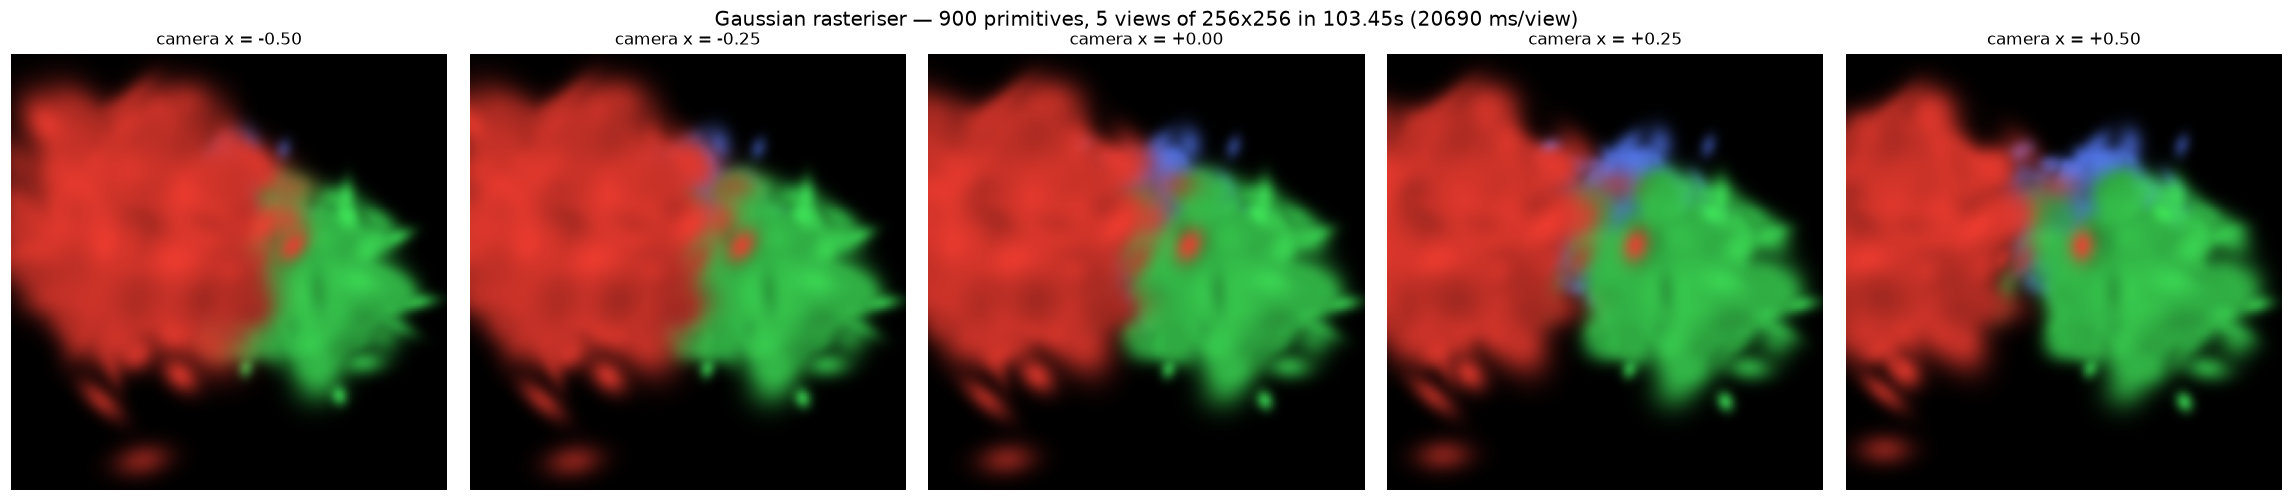
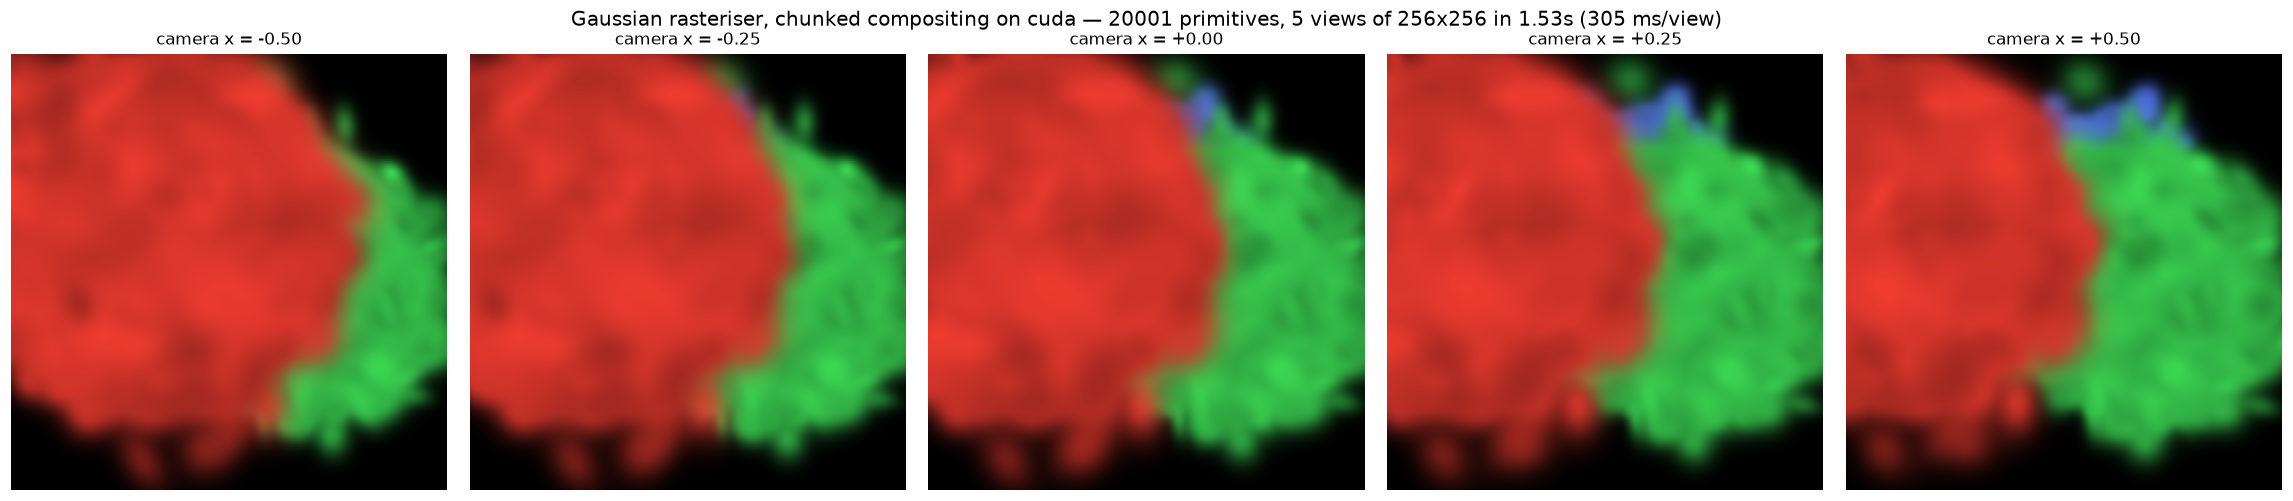
Vectorise the Gaussian rasteriser: 43x on the GPU
The per-primitive Python loop cost about 435 microseconds per Gaussian on
the GPU and -- the diagnostic detail -- the same whether the splat covered
4 pixels or 21. A cost that does not move with the work done is launch
overhead, not arithmetic, which is also why the GPU was 4.3 times slower
than the CPU: thousands of tiny kernels, each mostly latency.

Primitives now composite a chunk at a time, using an exclusive cumulative
product of (1 - alpha) built by shifting the inclusive one rather than
dividing, since the division is unbounded wherever a primitive is opaque.
Each Gaussian is evaluated over the frame and masked back to exactly its
old rectangular bounding box, so this is a pure speed change.

  4000 primitives, 256^2, GPU   1764 ms -> 41 ms      43x
  per primitive, GPU            435 us  -> 10 us
  20001 primitives, 256^2, GPU  8.70 s  -> 0.305 s    29x
  one 17x17 light field         42 min  -> 88 s

Equivalence is proved, not assumed: max difference 1.55e-15 against an
independently written longhand sum at 900 primitives and 256^2 in float64,
all 25 existing tests unchanged, chunk size shown to be a memory knob
rather than a correctness one, and an opaque blocker shown to still block
across a chunk boundary.

Two caveats recorded in the docstring. The CPU path is 25 times slower,
because dense evaluation does roughly three thousand times more arithmetic
for a small splat. And work now grows as the primitive count times the
[…]

diff --git a/tier1_gaussians/render.py b/tier1_gaussians/render.py
@@ -24,11 +24,38 @@ Conventions, stated once:
   * quaternions are (w, x, y, z) and are normalised on use
   * Gaussians composite front to back, nearest first
 
-Performance: this evaluates each Gaussian over a bounding box rather than
-binning into tiles, so cost grows as the number of Gaussians times their
-projected area. That is ample for scenes of a few thousand primitives and is
-NOT the architecture for a hundred thousand; tiling is the fix when it is
-needed, and it belongs here rather than in a caller.
+Performance. An earlier version looped over primitives in Python, evaluating
+each over its own bounding box. Measured, that cost about 100 microseconds per
+Gaussian on the CPU and 435 on the GPU -- and, tellingly, the SAME whether the
+splat covered 4 pixels or 21. The cost was per-primitive launch overhead, not
+arithmetic, which is why the GPU was four times SLOWER than the CPU: thousands
+of tiny kernels, each mostly latency.
+
+So the loop now runs over chunks of primitives instead, compositing a whole
+chunk at once with an exclusive cumulative product of (1 - alpha). Each
+Gaussian is evaluated over the full frame and masked back to its bounding box,
+which does more arithmetic than the per-box version but in a few hundred
+kernels rather than a few thousand. Arithmetic is the cheap resource here.
+
+Measured on 4000 Gaussians into a 256 square frame: 1764 ms before, 41 ms
+after, a factor of 43, and the per-primitive cost fell from 433 to 10
+microseconds.
+
+The same change makes the CPU path 25 times SLOWER -- 399 ms to 10042 ms --
+because a CPU has no spare arithmetic to trade for launches, and the dense
+evaluation does roughly three thousand times more of it for a four-pixel
+splat. That is accepted rather than fixed: light field generation runs on the
+GPU, the tests render frames of 32 to 64 pixels where it does not matter, and
+carrying a second compositing implementation to serve a case nobody uses would
+risk the two drifting apart. If a large CPU render is ever needed, the answer
+is tiling, not a second code path.
+
+What this does NOT fix: work grows as the number of Gaussians times the FRAME
+area, not times the projected area, so a hundred thousand primitives at 512
+squared is out of reach. The backward pass binds sooner still, because autograd
+keeps every chunk's intermediates alive, so peak training memory scales the
+same way. Tile binning answers all three -- CPU cost, large N, and backward
+memory -- and belongs here rather than in a caller.
 """
 
 from dataclasses import dataclass
@@ -43,6 +70,12 @@ CUTOFF_SIGMA = 3.0
 
 # Screen-space low-pass dilation, in pixels squared. Kerbl et al. 2023.
 DILATION_PX2 = 0.3
+
+# How many elements a single chunk's working tensors may reach. The chunk size
+# follows from this and the frame area, so a big frame automatically takes
+# fewer primitives per pass and peak memory stays put instead of tracking
+# resolution. Nine or so tensors of this size are live at once.
+CHUNK_ELEMENTS = 1 << 22
 
 
 @dataclass
@@ -147,7 +180,9 @@ def render(scene, camera, background=None):
 
     Differentiable in every scene parameter. The depth SORT is not
     differentiable, which is standard and correct: ordering is discrete, and
-    gradients flow through the blend given the order.
+    gradients flow through the blend given the order. Nor is the bounding box,
+    whose edges are floors and ceilings of the projected mean -- also as
+    before, when those edges were Python integers.
     """
     H, W = camera.height, camera.width
     dtype, device = scene.position.dtype, scene.position.device
@@ -167,53 +202,65 @@ def render(scene, camera, background=None):
     cov2d = cov2d + torch.eye(2, dtype=dtype, device=device) * DILATION_PX2
 
     order = torch.argsort(torch.where(visible, depth, torch.full_like(depth, np.inf)))
+    order = order[visible[order]]                      # nearest first, visible only
+
+    S = cov2d[order]
+    det = S[:, 0, 0] * S[:, 1, 1] - S[:, 0, 1] * S[:, 1, 0]
+    inv_xx, inv_xy, inv_yy = S[:, 1, 1] / det, -S[:, 0, 1] / det, S[:, 0, 0] / det
+
+    # The ellipse is bounded by the LARGEST EIGENVALUE, not by the largest
+    # diagonal entry. For [[a, b], [b, d]] they coincide only when b = 0, i.e.
+    # when the projected ellipse happens to be axis-aligned on screen. A tilted
+    # anisotropic Gaussian is the common case in a fitted scene, and using the
+    # diagonal clipped it by up to 29%, visible as a straight cut across the
+    # blob and as zero gradient outside the box.
+    trace = S[:, 0, 0] + S[:, 1, 1]
+    lam_max = 0.5 * (trace + torch.sqrt(torch.clamp(trace ** 2 - 4 * det, min=0.0)))
+    radius = CUTOFF_SIGMA * torch.sqrt(lam_max)
+
+    mu = mean_px[order]
+    colour, opacity = scene.colour[order], scene.opacity[order]
+    lo_c, hi_c = torch.floor(mu[:, 0] - radius), torch.ceil(mu[:, 0] + radius)
+    lo_r, hi_r = torch.floor(mu[:, 1] - radius), torch.ceil(mu[:, 1] + radius)
+
     yy, xx = torch.meshgrid(torch.arange(H, device=device, dtype=dtype),
                             torch.arange(W, device=device, dtype=dtype),
                             indexing="ij")
+    col = xx[None]
+    row = yy[None]
 
-    for i in order.tolist():
-        if not bool(visible[i]):
-            continue
-        S = cov2d[i]
-        det = S[0, 0] * S[1, 1] - S[0, 1] * S[1, 0]
-        inv = torch.stack([torch.stack([S[1, 1], -S[0, 1]]),
-                           torch.stack([-S[1, 0], S[0, 0]])]) / det
+    n = order.shape[0]
+    step = max(1, CHUNK_ELEMENTS // (H * W))
+    for start in range(0, n, step):
+        s = slice(start, start + step)
+        dx = col - mu[s, 0, None, None]
+        dy = row - mu[s, 1, None, None]
+        power = -0.5 * (inv_xx[s, None, None] * dx * dx
+                        + 2 * inv_xy[s, None, None] * dx * dy
+                        + inv_yy[s, None, None] * dy * dy)
 
-        # The ellipse is bounded by the LARGEST EIGENVALUE, not by the largest
-        # diagonal entry. For [[a, b], [b, d]] they coincide only when b = 0,
-        # i.e. when the projected ellipse happens to be axis-aligned on screen.
-        # A tilted anisotropic Gaussian is the common case in a fitted scene,
-        # and using the diagonal clipped it by up to 29%, visible as a straight
-        # cut across the blob and as zero gradient outside the box.
-        trace = S[0, 0] + S[1, 1]
-        lam_max = 0.5 * (trace + torch.sqrt(torch.clamp(trace ** 2 - 4 * det, min=0.0)))
-        radius = CUTOFF_SIGMA * torch.sqrt(lam_max)
-        c0 = int(max(0, torch.floor(mean_px[i, 0] - radius).item()))
-        c1 = int(min(W, torch.ceil(mean_px[i, 0] + radius).item() + 1))
-        r0 = int(max(0, torch.floor(mean_px[i, 1] - radius).item()))
-        r1 = int(min(H, torch.ceil(mean_px[i, 1] + radius).item() + 1))
-        if c0 >= c1 or r0 >= r1:
-            continue
+        # Exactly the old per-primitive bounding box, expressed as a mask: a
+        # pixel was included iff its integer coordinate fell within the floored
+        # and ceiled extent of the projected mean. Keeping the rectangle rather
+        # than switching to a clean elliptical cutoff is deliberate -- it makes
+        # this a pure speed change, provable against the old behaviour.
+        inside = ((col >= lo_c[s, None, None]) & (col <= hi_c[s, None, None])
+                  & (row >= lo_r[s, None, None]) & (row <= hi_r[s, None, None]))
+        alpha = opacity[s, None, None] * torch.exp(torch.clamp(power, max=0.0))
+        alpha = torch.where(inside, alpha, torch.zeros_like(alpha))
 
-        dx = xx[r0:r1, c0:c1] - mean_px[i, 0]
-        dy = yy[r0:r1, c0:c1] - mean_px[i, 1]
-        power = -0.5 * (inv[0, 0] * dx * dx + 2 * inv[0, 1] * dx * dy
-                        + inv[1, 1] * dy * dy)
-        alpha = scene.opacity[i] * torch.exp(torch.clamp(power, max=0.0))
+        # Front-to-back compositing, in closed form rather than by recursion:
+        # the light reaching primitive k is the product of (1 - alpha) over
+        # every nearer one, which is an EXCLUSIVE cumulative product. Built by
+        # shifting the inclusive one rather than dividing by alpha, because the
+        # division is unbounded wherever a primitive is opaque.
+        one_minus = 1 - alpha
+        inclusive = torch.cumprod(one_minus, dim=0)
+        exclusive = torch.cat([torch.ones_like(inclusive[:1]), inclusive[:-1]], dim=0)
 
-        # Slice assignment, NOT Tensor.index_put: the out-of-place form clones
-        # the whole image for every primitive, so cost scaled with frame area
-        # rather than with the Gaussian's footprint -- measured at 6.07 ms per
-        # call against 0.008 ms for this, a factor of 755.
-        # The patches are CLONED before the write. Autograd saves the views it
-        # needs for the backward pass, and overwriting a slice in place would
-        # invalidate the very view the blend depends on. Cloning a bounding box
-        # is cheap; cloning the frame, which index_put did, was not.
-        patch_image = image[r0:r1, c0:c1].clone()
-        patch_T = transmittance[r0:r1, c0:c1].clone()
-        image[r0:r1, c0:c1] = patch_image + \
-            (patch_T * alpha)[:, :, None] * scene.colour[i]
-        transmittance[r0:r1, c0:c1] = patch_T * (1 - alpha)
+        weight = alpha * exclusive * transmittance[None]
+        image = image + torch.einsum("khw,kc->hwc", weight, colour[s])
+        transmittance = transmittance * inclusive[-1]
 
     if background is not None:
         image = image + transmittance[:, :, None] * background

diff --git a/tests/test_gaussian_render.py b/tests/test_gaussian_render.py
@@ -407,3 +407,125 @@ def test_rendering_stays_differentiable_after_the_in_place_write():
     for t in (scene.position, scene.scale):
         assert t.grad is not None and torch.isfinite(t.grad).all()
         assert t.grad.abs().max() > 0
+
+
+# ---------------------------------------------------------------------------
+# The rasteriser composites a chunk at a time with a cumulative product rather
+# than one primitive at a time. That is a pure speed change, so it has to agree
+# with the compositing definition written out longhand.
+# ---------------------------------------------------------------------------
+
+def _composite_longhand(scene, camera):
+    """
+    sum_i c_i a_i prod_(j<i) (1 - a_j), evaluated with an explicit Python loop
+    over primitives in depth order. Deliberately naive and deliberately not
+    sharing code with `render`, so agreement means something.
+    """
+    from tier1_gaussians.render import (CUTOFF_SIGMA, DILATION_PX2,
+                                        project_gaussians)
+    H, W = camera.height, camera.width
+    mean_px, cov2d, depth, visible = project_gaussians(scene, camera)
+    cov2d = cov2d + torch.eye(2, dtype=cov2d.dtype) * DILATION_PX2
+
+    image = np.zeros((H, W, 3))
+    trans = np.ones((H, W))
+    order = np.argsort(np.where(visible.numpy(), depth.detach().numpy(), np.inf))
+
+    for i in order:
+        if not bool(visible[i]):
+            continue
+        S = cov2d[i].detach().numpy()
+        det = S[0, 0] * S[1, 1] - S[0, 1] * S[1, 0]
+        inv = np.array([[S[1, 1], -S[0, 1]], [-S[1, 0], S[0, 0]]]) / det
+        lam_max = np.linalg.eigvalsh(S).max()
+        radius = CUTOFF_SIGMA * np.sqrt(lam_max)
+        u, v = mean_px[i].detach().numpy()
+
+        cols = np.arange(W)[None, :]
+        rows = np.arange(H)[:, None]
+        dx, dy = cols - u, rows - v
+        power = -0.5 * (inv[0, 0] * dx ** 2 + 2 * inv[0, 1] * dx * dy + inv[1, 1] * dy ** 2)
+        inside = ((cols >= np.floor(u - radius)) & (cols <= np.ceil(u + radius))
+                  & (rows >= np.floor(v - radius)) & (rows <= np.ceil(v + radius)))
+        alpha = np.where(inside, float(scene.opacity[i]) * np.exp(np.minimum(power, 0.0)), 0.0)
+
+        image += (trans * alpha)[:, :, None] * scene.colour[i].detach().numpy()
+        trans = trans * (1 - alpha)
+    return image, trans
+
+
+@pytest.mark.parametrize("n", [1, 5, 40])
+def test_chunked_compositing_equals_the_longhand_sum(n):
+    g = torch.Generator().manual_seed(7 + n)
+    r = lambda *s: torch.rand(*s, generator=g, dtype=torch.float64)
+    scene = GaussianScene(
+        position=(r(n, 3) - 0.5) * 3 - torch.tensor([0.0, 0.0, 6.0], dtype=torch.float64),
+        quaternion=r(n, 4) - 0.5,
+        scale=0.05 * (0.5 + r(n, 3)),
+        opacity=0.2 + 0.6 * r(n),
+        colour=r(n, 3))
+    cam = a_camera(width=48, height=48)
+
+    got = render(scene, cam).detach().numpy()
+    want, _ = _composite_longhand(scene, cam)
+    # Guard against the test passing by rendering nothing: this camera looks
+    # along -Z, and an earlier version of this scene sat behind it, so the
+    # comparison was between two blank images and could not fail.
+    assert got.max() > 0.05, "the scene must actually be in front of the camera"
+    assert np.allclose(got, want, atol=1e-12), f"max diff {np.abs(got - want).max():.3e}"
+
+
+def test_chunking_does_not_change_the_result():
+    """The chunk size is a memory knob; it must not be a correctness knob."""
+    import tier1_gaussians.render as R
+    g = torch.Generator().manual_seed(3)
+    r = lambda *s: torch.rand(*s, generator=g, dtype=torch.float64)
+    n = 30
+    scene = GaussianScene(
+        position=(r(n, 3) - 0.5) * 3 - torch.tensor([0.0, 0.0, 6.0], dtype=torch.float64),
+        quaternion=r(n, 4) - 0.5, scale=0.06 * (0.5 + r(n, 3)),
+        opacity=0.2 + 0.6 * r(n), colour=r(n, 3))
+    cam = a_camera(width=40, height=40)
+
+    original = R.CHUNK_ELEMENTS
+    try:
+        R.CHUNK_ELEMENTS = 1 << 22
+        big = render(scene, cam)
+        R.CHUNK_ELEMENTS = 40 * 40            # exactly one primitive per chunk
+        one = render(scene, cam)
+        R.CHUNK_ELEMENTS = 40 * 40 * 7
+        seven = render(scene, cam)
+    finally:
+        R.CHUNK_ELEMENTS = original
+
+    assert float(big.max()) > 0.05, "the scene must actually be in front of the camera"
+    assert torch.allclose(big, one, atol=1e-12)
+    assert torch.allclose(big, seven, atol=1e-12)
+
+
+def test_an_opaque_near_primitive_still_blocks_across_a_chunk_boundary():
+    """
+    The running transmittance has to survive between chunks. If it did not,
+    a blocker in chunk 0 would stop hiding things in chunk 1.
+    """
+    import tier1_gaussians.render as R
+    cam = a_camera(width=32, height=32)
+    scene = GaussianScene(
+        position=torch.tensor([[0.0, 0.0, -3.0], [0.0, 0.0, -6.0]], dtype=torch.float64),
+        quaternion=torch.tensor([[1.0, 0, 0, 0]] * 2, dtype=torch.float64),
+        scale=torch.full((2, 3), 0.4, dtype=torch.float64),
+        opacity=torch.tensor([1.0, 1.0], dtype=torch.float64),
+        colour=torch.tensor([[1.0, 0.0, 0.0], [0.0, 1.0, 0.0]], dtype=torch.float64))
+
+    original = R.CHUNK_ELEMENTS
+    try:
+        R.CHUNK_ELEMENTS = 32 * 32            # one primitive per chunk: they split
+        split = render(scene, cam)
+        R.CHUNK_ELEMENTS = 1 << 22            # both in one chunk
+        together = render(scene, cam)
+    finally:
+        R.CHUNK_ELEMENTS = original
+
+    assert torch.allclose(split, together, atol=1e-12)
+    centre = split[16, 16]
+    assert float(centre[0]) > 0.9 and float(centre[1]) < 0.05, "the near red one must win"
